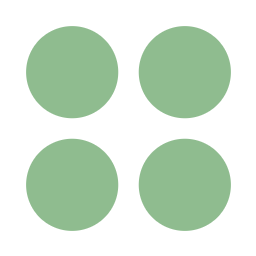
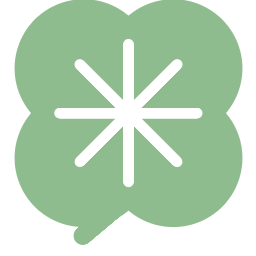
fix: restore connected clover with double-cross (+ and ×) design
- buildTrayIcon(): reverted to connected clover with white + and × lines
- icon.png / icon-512.png: regenerated to match tray icon design (256px, 512px)
- tray-icon.png: regenerated (32px fallback)
- gen-icons.js: updated to use same connected-clover + double-cross design

https://claude.ai/code/session_011NfvV9H9Vm94LfK7JVGsU2

diff --git a/gen-icons.js b/gen-icons.js
@@ -1,5 +1,5 @@
 /**
- * gen-icons.js — 4-circle clover 아이콘 생성
+ * gen-icons.js — 연결된 클로버 + 이중 흰 십자 (+ 와 ×) 아이콘 생성
  * node gen-icons.js
  */
 'use strict';
@@ -8,22 +8,17 @@ const fs   = require('fs');
 const path = require('path');
 
 /**
- * 4개의 원이 2×2 격자로 배치된 클로버 PNG 생성
- * @param {number} W  가로 픽셀
- * @param {number} H  세로 픽셀
- * @param {string} color  원 색상 hex (#8fbc8f 등)
- * @param {boolean} withBackground  흰 둥근사각형 배경 포함 여부
+ * buildTrayIcon() 과 동일한 디자인을 임의 크기로 렌더링
  */
 function makeCloverPNG(W, H, color = '#8fbc8f', withBackground = true) {
   let hex = color.replace('#', '');
   if (!/^[0-9a-fA-F]{6}$/.test(hex)) hex = '8fbc8f';
-  const cr = parseInt(hex.slice(0, 2), 16);
-  const cg = parseInt(hex.slice(2, 4), 16);
-  const cb = parseInt(hex.slice(4, 6), 16);
+  const fr = parseInt(hex.slice(0, 2), 16);
+  const fg = parseInt(hex.slice(2, 4), 16);
+  const fb = parseInt(hex.slice(4, 6), 16);
 
   const buf = Buffer.alloc(W * H * 4, 0);
 
-  // ── 픽셀 합성 (알파 블렌딩) ──
   function setPixel(x, y, r, g, b, a) {
     if (x < 0 || y < 0 || x >= W || y >= H) return;
     const i = (y * W + x) * 4;
@@ -35,8 +30,6 @@ function makeCloverPNG(W, H, color = '#8fbc8f', withBackground = true) {
     buf[i+2] = Math.round((b * sA + buf[i+2] * dA * (1 - sA)) / oA);
     buf[i+3] = Math.round(oA * 255);
   }
-
-  // ── 안티앨리어싱 원 ──
   function fillCircle(cx, cy, r, R, G, B, A) {
     for (let y = Math.floor(cy - r - 1); y <= Math.ceil(cy + r + 1); y++) {
       for (let x = Math.floor(cx - r - 1); x <= Math.ceil(cx + r + 1); x++) {
@@ -46,8 +39,13 @@ function makeCloverPNG(W, H, color = '#8fbc8f', withBackground = true) {
       }
     }
   }
-
-  // ── 안티앨리어싱 둥근 사각형 ──
+  function drawLine(x1, y1, x2, y2, thick, R, G, B, A) {
+    const steps = Math.max(Math.abs(x2 - x1), Math.abs(y2 - y1)) * 3;
+    for (let i = 0; i <= steps; i++) {
+      const t = i / steps;
+      fillCircle(x1 + (x2 - x1) * t, y1 + (y2 - y1) * t, thick / 2, R, G, B, A);
+    }
+  }
   function fillRoundRect(x, y, w, h, rad, R, G, B, A) {
     for (let py = y; py < y + h; py++) {
       for (let px = x; px < x + w; px++) {
@@ -60,27 +58,45 @@ function makeCloverPNG(W, H, color = '#8fbc8f', withBackground = true) {
     }
   }
 
-  // ── 배경 (흰 둥근 사각형) ──
+  // 배경 (흰 둥근 사각형)
   if (withBackground) {
     fillRoundRect(0, 0, W, H, W * 0.2, 255, 255, 255, 255);
   }
 
-  // ── 4원 2×2 배치 ──
-  // pad: 가장자리 여백, gap: 원 사이 간격
-  // 원 반지름: r = (W - 2*pad - gap) / 4
-  const pad = W * 0.1;
-  const gap = W * 0.08;
-  const r   = (W - 2 * pad - gap) / 4;
-  const cx1 = pad + r;
-  const cx2 = W - pad - r;
-  const cy1 = pad + r;
-  const cy2 = H - pad - r;
+  // 연결된 클로버 + 이중 십자 (buildTrayIcon 과 동일 비율)
+  const leafR  = W * 0.27, offset = W * 0.175;
+  const leafCY = H * 0.44;
+  const leaves = [
+    { x: W/2 - offset, y: leafCY - offset },
+    { x: W/2 + offset, y: leafCY - offset },
+    { x: W/2 - offset, y: leafCY + offset },
+    { x: W/2 + offset, y: leafCY + offset },
+  ];
+  const sw = Math.max(2, leafR * 0.18);
 
-  for (const [cx, cy] of [[cx1, cy1], [cx2, cy1], [cx1, cy2], [cx2, cy2]]) {
-    fillCircle(cx, cy, r, cr, cg, cb, 255);
-  }
+  // 흰 외곽선 + 줄기 (배경레이어)
+  for (const { x, y } of leaves) fillCircle(x, y, leafR + sw / 2, 255, 255, 255, 255);
+  const stemW  = Math.max(1.5, W * 0.07);
+  const stemX1 = W/2 - W * 0.01, stemY1 = leafCY + offset + leafR * 0.6;
+  const stemX2 = W/2 - W * 0.18, stemY2 = H - H * 0.08;
+  drawLine(stemX1, stemY1, stemX2, stemY2, stemW + sw, 255, 255, 255, 255);
 
-  // ── PNG 인코딩 ──
+  // 잎 채우기
+  for (const { x, y } of leaves) fillCircle(x, y, leafR, fr, fg, fb, 255);
+
+  // + 십자
+  const cw = Math.max(1, W * 0.04);
+  drawLine(W/2, leafCY - leafR, W/2, leafCY + leafR, cw, 255, 255, 255, 200);
+  drawLine(W/2 - leafR, leafCY, W/2 + leafR, leafCY, cw, 255, 255, 255, 200);
+  // × 십자 (대각선)
+  const diag = leafR / Math.SQRT2;
+  drawLine(W/2 - diag, leafCY - diag, W/2 + diag, leafCY + diag, cw, 255, 255, 255, 200);
+  drawLine(W/2 + diag, leafCY - diag, W/2 - diag, leafCY + diag, cw, 255, 255, 255, 200);
+
+  // 줄기 색상
+  drawLine(stemX1, stemY1, stemX2, stemY2, stemW, fr, fg, fb, 255);
+
+  // PNG 인코딩
   function crc32(b) {
     let crc = 0xffffffff;
     const t = new Uint32Array(256);
@@ -114,15 +130,12 @@ function makeCloverPNG(W, H, color = '#8fbc8f', withBackground = true) {
 
 const assetsDir = path.join(__dirname, 'assets');
 
-// icon.png 256×256 (배경 O)
-fs.writeFileSync(path.join(assetsDir, 'icon.png'), makeCloverPNG(256, 256, '#8fbc8f', true));
+fs.writeFileSync(path.join(assetsDir, 'icon.png'),     makeCloverPNG(256, 256, '#8fbc8f', true));
 console.log('✓ icon.png (256×256)');
 
-// icon-512.png 512×512 (배경 O)
 fs.writeFileSync(path.join(assetsDir, 'icon-512.png'), makeCloverPNG(512, 512, '#8fbc8f', true));
 console.log('✓ icon-512.png (512×512)');
 
-// tray-icon.png 32×32 (배경 없음 — 트레이용)
 fs.writeFileSync(path.join(assetsDir, 'tray-icon.png'), makeCloverPNG(32, 32, '#8fbc8f', false));
 console.log('✓ tray-icon.png (32×32)');
 

diff --git a/main.js b/main.js
@@ -760,7 +760,7 @@ function broadcastListUpdate() {
 }
 
 // ──────────────────────────────────────────
-// 트레이 아이콘 동적 생성 (순수 PNG 픽셀 렌더링 — 4원 클로버 디자인)
+// 트레이 아이콘 동적 생성 (순수 PNG 픽셀 렌더링 — SVG 미사용)
 // ──────────────────────────────────────────
 function buildTrayIcon(symbolId = 'clover', color = '#8fbc8f') {
   const zlib = require('zlib');
@@ -793,17 +793,40 @@ function buildTrayIcon(symbolId = 'clover', color = '#8fbc8f') {
       }
     }
   }
-
-  // 4원 2×2 클로버 (배경 없음, 투명)
-  {
-    const pad = W * 0.1;
-    const gap = W * 0.08;
-    const r   = (W - 2 * pad - gap) / 4;
-    const cx1 = pad + r, cx2 = W - pad - r;
-    const cy1 = pad + r, cy2 = H - pad - r;
-    for (const [cx, cy] of [[cx1, cy1], [cx2, cy1], [cx1, cy2], [cx2, cy2]]) {
-      fillCircle(cx, cy, r, fr, fg, fb, 255);
+  function drawLine(x1, y1, x2, y2, thick, r2, g2, b2, a2) {
+    const steps = Math.max(Math.abs(x2 - x1), Math.abs(y2 - y1)) * 3;
+    for (let i = 0; i <= steps; i++) {
+      const t = i / steps;
+      fillCircle(x1 + (x2 - x1) * t, y1 + (y2 - y1) * t, thick / 2, r2, g2, b2, a2);
     }
+  }
+
+  // 연결된 클로버 + 흰 × 및 + 이중 십자
+  {
+    const leafR  = W * 0.27, offset = W * 0.175;
+    const leafCY = H * 0.44;
+    const leaves = [
+      { x: W/2 - offset, y: leafCY - offset },
+      { x: W/2 + offset, y: leafCY - offset },
+      { x: W/2 - offset, y: leafCY + offset },
+      { x: W/2 + offset, y: leafCY + offset },
+    ];
+    const sw = Math.max(2, leafR * 0.18);
+    for (const { x, y } of leaves) fillCircle(x, y, leafR + sw / 2, 255, 255, 255, 255);
+    const stemW  = Math.max(1.5, W * 0.07);
+    const stemX1 = W/2 - W * 0.01, stemY1 = leafCY + offset + leafR * 0.6;
+    const stemX2 = W/2 - W * 0.18, stemY2 = H - H * 0.08;
+    drawLine(stemX1, stemY1, stemX2, stemY2, stemW + sw, 255, 255, 255, 255);
+    for (const { x, y } of leaves) fillCircle(x, y, leafR, fr, fg, fb, 255);
+    const cw = Math.max(1, W * 0.04);
+    // + 십자
+    drawLine(W/2, leafCY - leafR, W/2, leafCY + leafR, cw, 255, 255, 255, 200);
+    drawLine(W/2 - leafR, leafCY, W/2 + leafR, leafCY, cw, 255, 255, 255, 200);
+    // × 십자 (대각선)
+    const diag = leafR / Math.SQRT2;
+    drawLine(W/2 - diag, leafCY - diag, W/2 + diag, leafCY + diag, cw, 255, 255, 255, 200);
+    drawLine(W/2 + diag, leafCY - diag, W/2 - diag, leafCY + diag, cw, 255, 255, 255, 200);
+    drawLine(stemX1, stemY1, stemX2, stemY2, stemW, fr, fg, fb, 255);
   }
 
   // ── PNG 인코딩 ──
